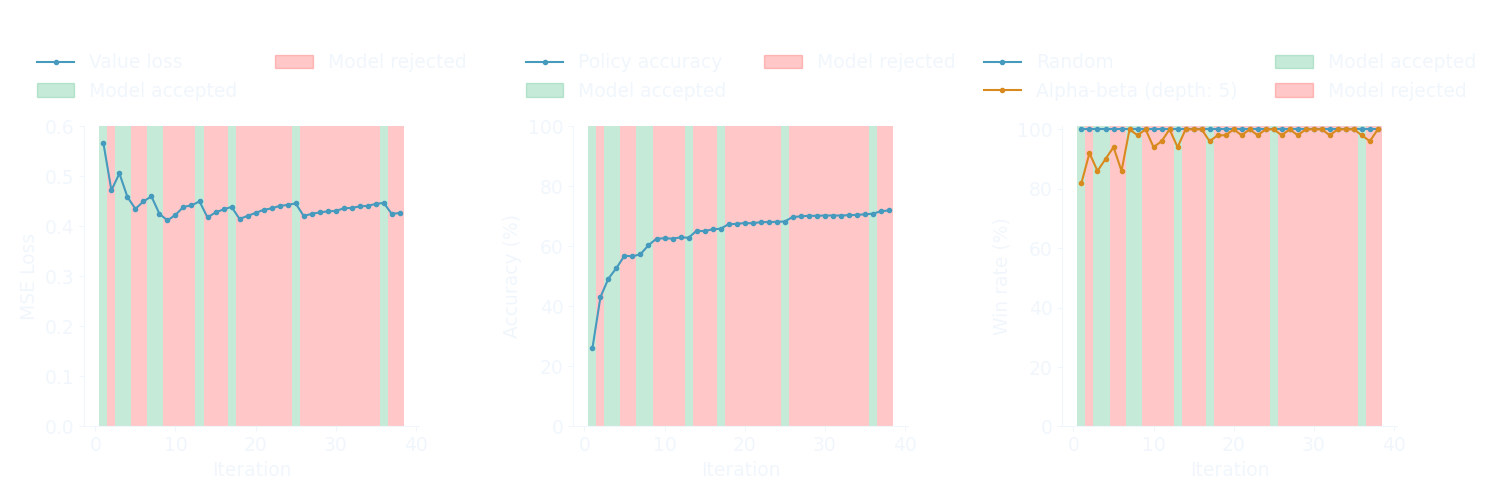
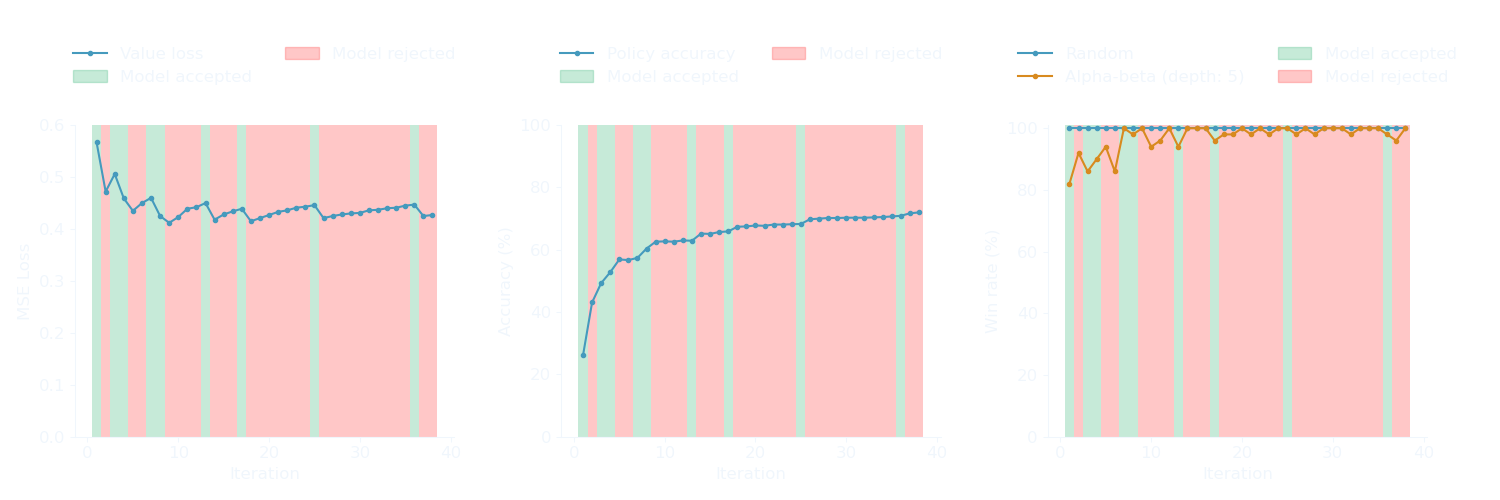
Improved plot with loss, policy, win-rate curves v3

diff --git a/experiment/Experiment.py b/experiment/Experiment.py
@@ -106,7 +106,7 @@ class Experiment:
         plt.tight_layout()
         plt.show()
 
-    def plot_result_curves_v2(self, path="./logs/recent", dark_mode=False):
+    def plot_result_curves_v2(self, path="./logs/recent", dark_mode=True):
         results_per_iteration = self.__parse_log_summary_file(path)
         value_losses = [result["value_loss"] for result in results_per_iteration]
         policy_accuracies = [result["policy_accuracy"] for result in results_per_iteration]
@@ -114,7 +114,7 @@ class Experiment:
         win_rates_random = [result["win_rate_random"] for result in results_per_iteration]
         win_rates_alpha_beta = [result["win_rate_alpha_beta"] for result in results_per_iteration]
 
-        matplotlib.rcParams.update({"font.size": 13.5})
+        matplotlib.rcParams.update({"font.size": 12})
         fig, axes = plt.subplots(nrows=1, ncols=3, figsize=(15, 5))
         color = "#0d1117" if not dark_mode else "#F0F6FC"
         patch_width = 1.
